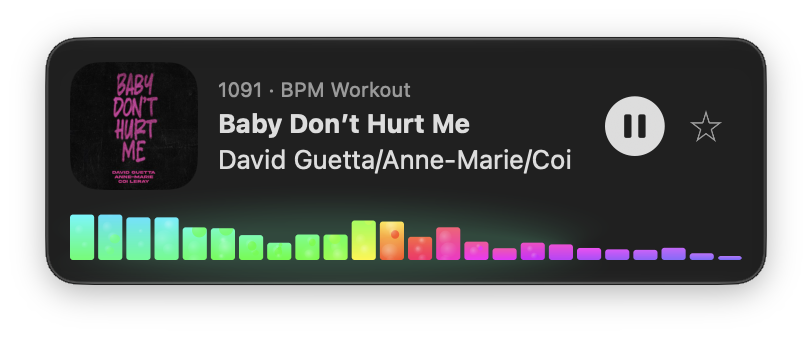
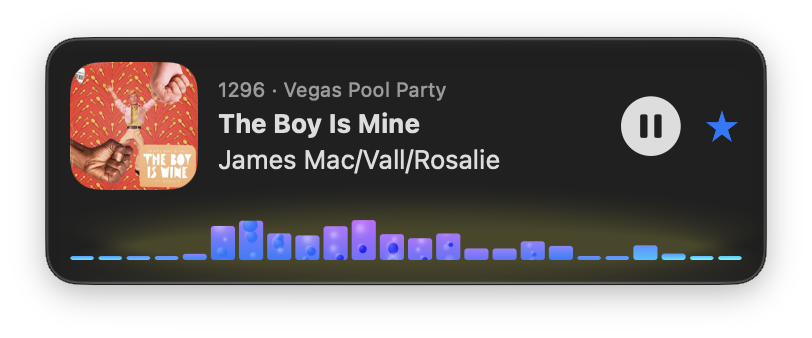
README + media for Mac 1.1.17 (auto updates; new screenshots/demo on Vegas Pool Party)

diff --git a/README.md b/README.md
@@ -21,7 +21,7 @@ StarPlayrX was built for visually impaired listeners, a group of paying subscrib
 ## 🎛 StarPlayrX for Mac (menu bar app)
 
 <p align="center">
-  <img src="docs/starplayrx-mac-demo.gif" width="400" alt="StarPlayrX playing BPM Workout: click the menu bar icon, drag the panel off the menu bar into its own window, double-click the header to roll it up like a window shade and again to roll it down, then click the icon to glide it back under the menu bar">
+  <img src="docs/starplayrx-mac-demo.gif" width="400" alt="StarPlayrX playing Vegas Pool Party: click the menu bar icon, drag the panel off the menu bar into its own window, double-click the header to roll it up like a window shade and again to roll it down, then click the icon to glide it back under the menu bar">
 </p>
 
 <table align="center">
@@ -78,10 +78,11 @@ StarPlayrX was built for visually impaired listeners, a group of paying subscrib
 - Picks up where you left off: the last channel you played starts again when StarPlayrX opens
 - US and Canada accounts (pick Canada on the sign-in screen)
 - Your password is stored only in the macOS Keychain
+- **Keeps itself up to date:** checks GitHub for a newer release shortly after launch and every 6 hours, then asks: Update (downloads the signed build, verifies the Developer ID signature, swaps it in and relaunches), Remind Me in 1 Hour, or No Thanks
 
 **Requirements:** macOS 13 Ventura or later, Apple Silicon or Intel, and an active SiriusXM subscription.
 
-**Download:** [StarPlayrX for Mac 1.1.15](https://github.com/AgentiLoop/StarPlayrX/releases/tag/mac-1.1.15) (signed and notarized). All builds are on the [Releases](https://github.com/AgentiLoop/StarPlayrX/releases) page.
+**Download:** [StarPlayrX for Mac 1.1.17](https://github.com/AgentiLoop/StarPlayrX/releases/tag/mac-1.1.17) (signed and notarized). All builds are on the [Releases](https://github.com/AgentiLoop/StarPlayrX/releases) page.
 
 ### 📜 AppleScript
 
@@ -97,6 +98,7 @@ tell application "StarPlayrX"
     sign in user "me@example.com" password "…"
     park menu at upper right
     toggle shade
+    check for updates                    -- offers a newer release; empty result when up to date
 end tell
 ```
 
